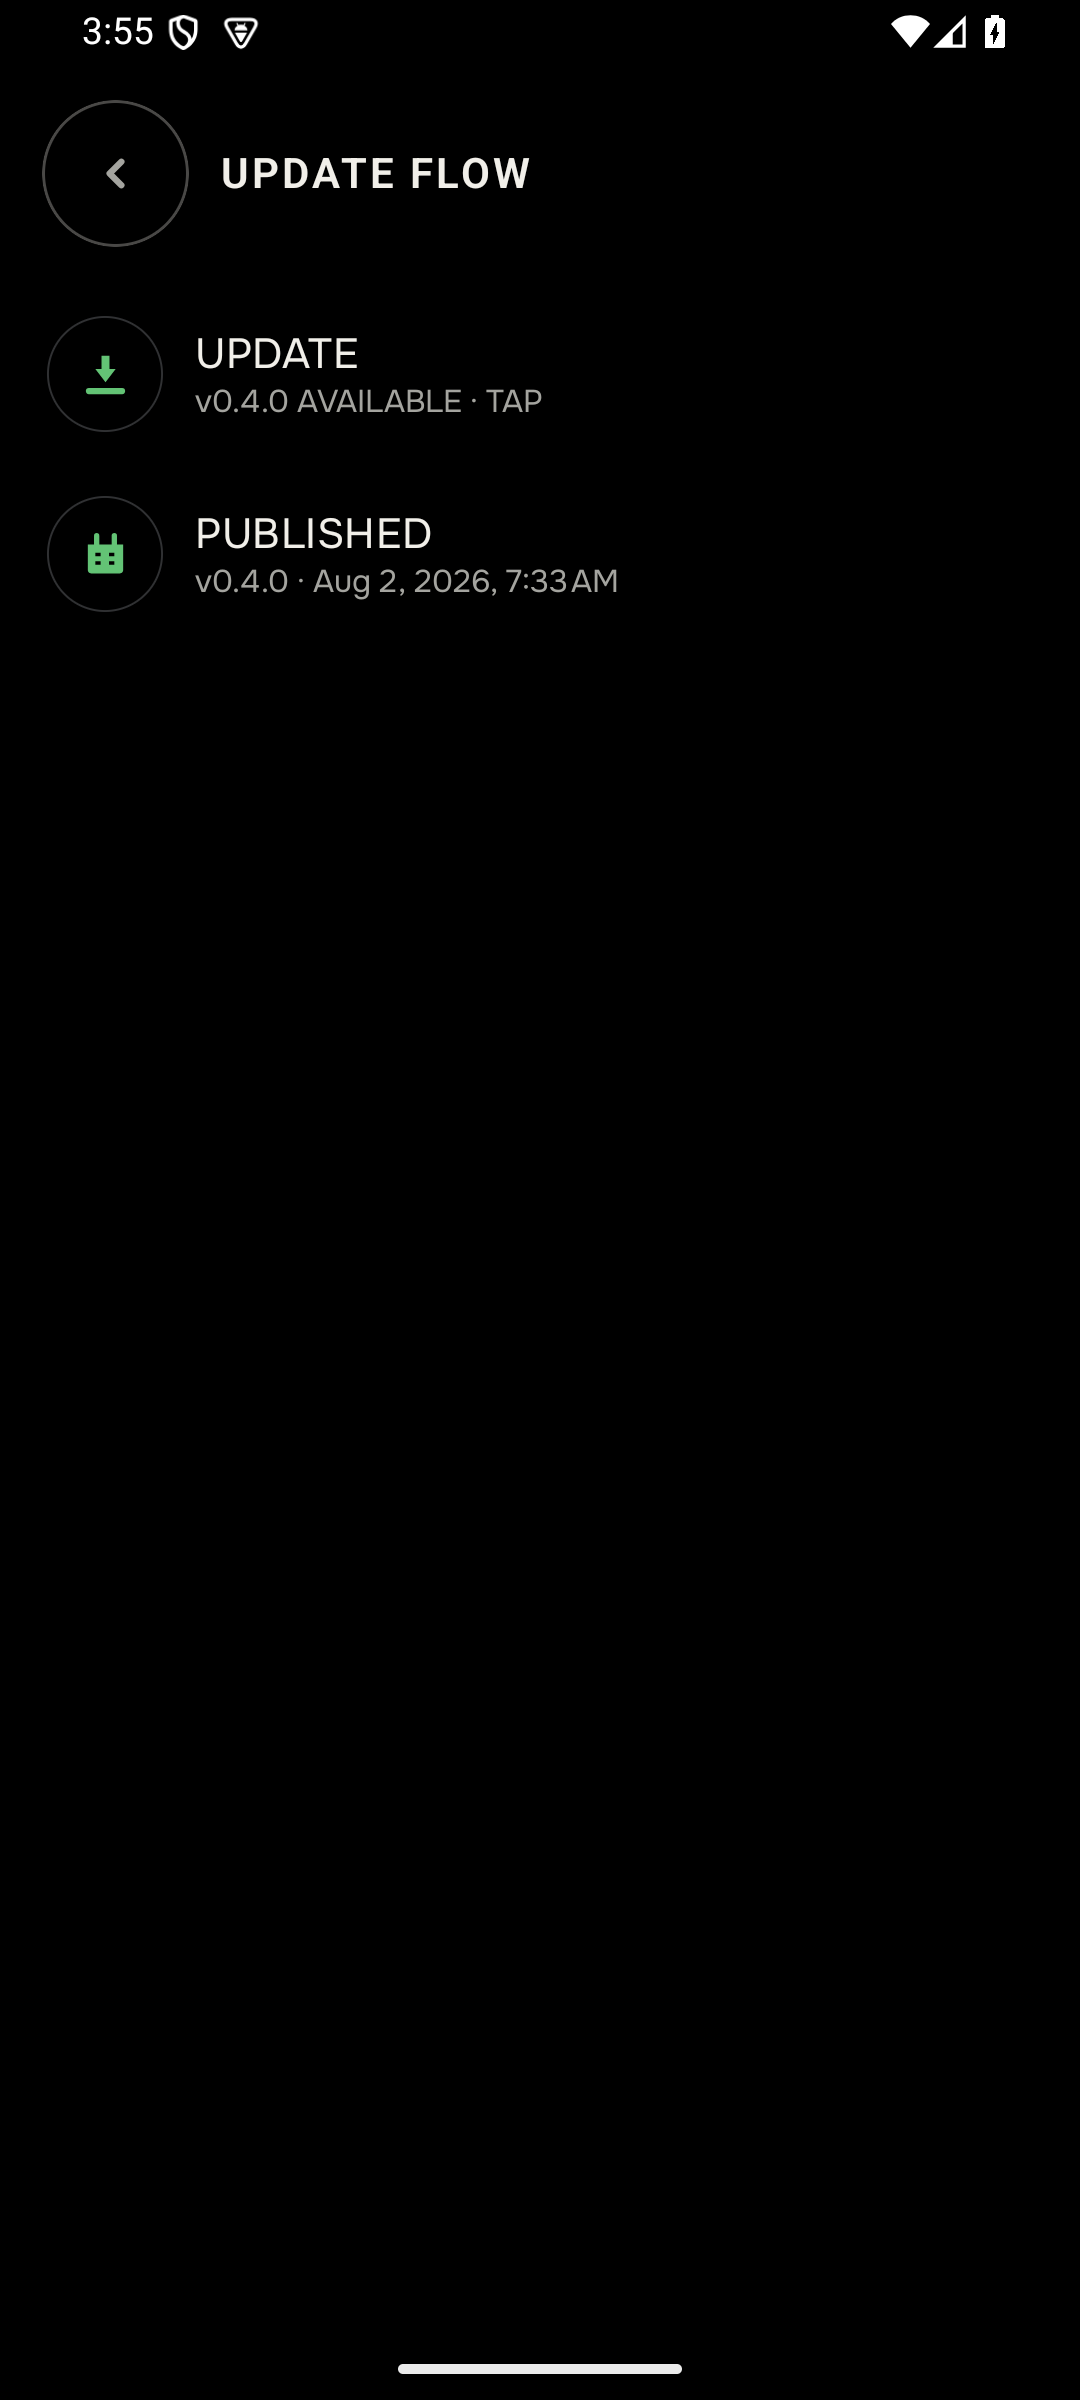
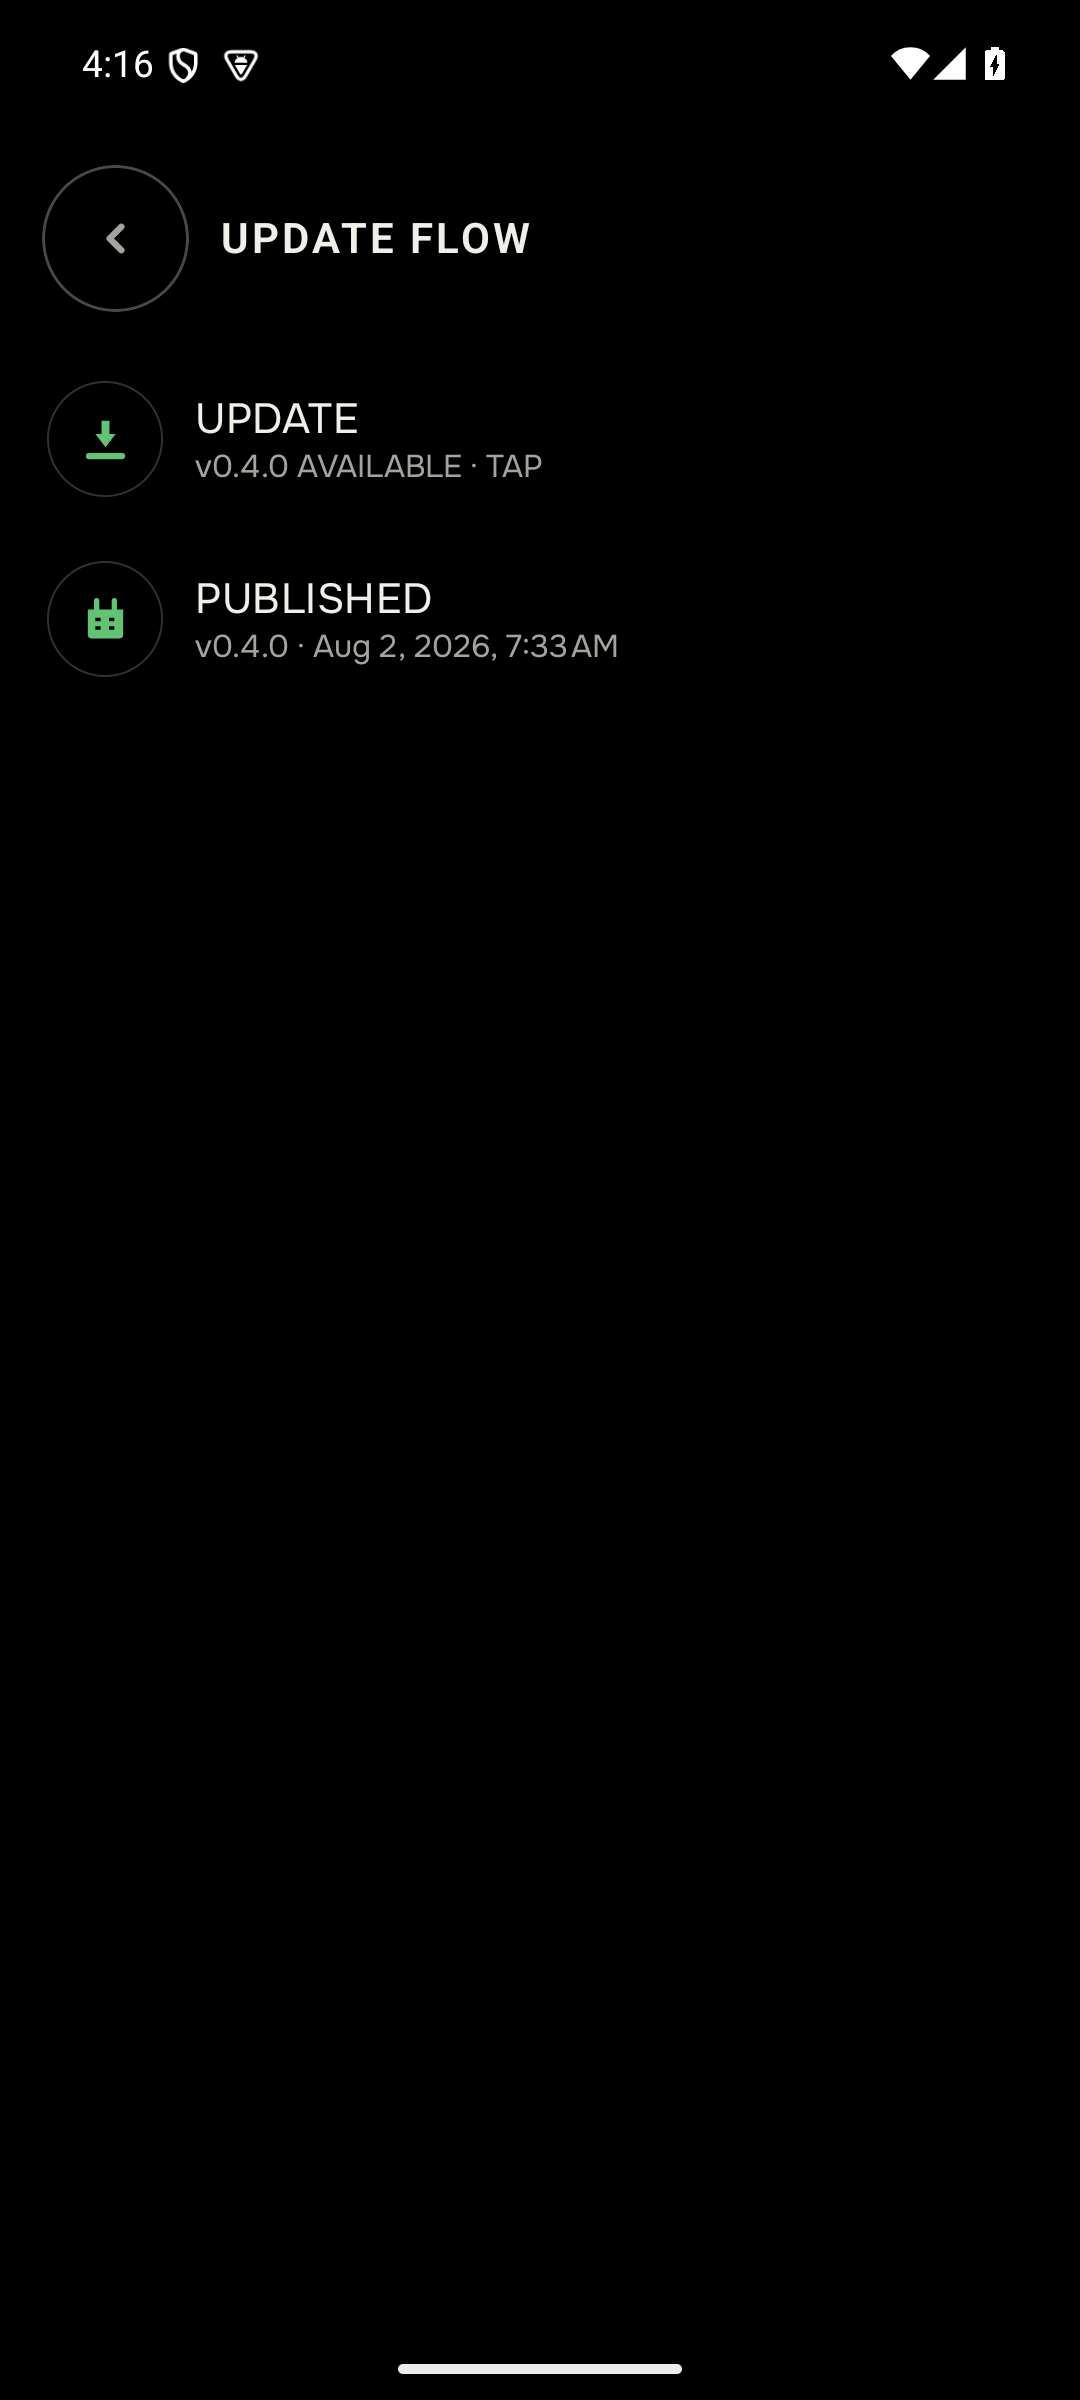
docs(releasekit-ui): refresh exact visual proof

diff --git a/docs/qa/2026-08-02-showcase-release-info/README.md b/docs/qa/2026-08-02-showcase-release-info/README.md
@@ -1,6 +1,6 @@
 # Showcase release publication presentation
 
-Source APK commit: `a0cbb1b334e387780e160ab2bcebad4cea07ac74`.
+Source APK commit: `dc987243f660a9918d1e97ebd8eb8eb1caedc8f7`.
 All navigation used `tools/showcase-probe.sh`; no coordinate taps or fabricated
 network response were used.
 
@@ -13,18 +13,21 @@ network response were used.
   `https://api.github.com/repos/adelost/circlekit/releases`.
 - The newest compatible release observed during QA was `v0.3.17`, with Phone
   and Wear APKs and source-owned `published_at=2026-08-02T05:33:20Z`.
-- Showcase is a same-repository laboratory and intentionally consumes
-  `project(":releasekit")`. This adoption therefore uses the source published
-  as CircleKit `0.3.19`; replacing it with its own Maven dependency would test
-  different code from the repository under development.
+- The separately publishable `releasekit-ui` module owns the exact UPDATE row,
+  optional PUBLISHED row, icons, typed check/install action mapping, progress,
+  failure colour, and locale/timezone boundary. Showcase consumes that module
+  directly and has no local release-row adapter.
+- Showcase is a same-repository laboratory and intentionally consumes project
+  modules. Replacing them with Maven dependencies would test different code
+  from the repository under development.
 
 ## Pixel contract and result
 
 The named `flow.update/available` fixture carries that fixed absolute instant.
 Before inspection, each image was required to show `UPDATE FLOW`, the shared
-`v0.4.0 AVAILABLE · TAP` projection, and a separate `PUBLISHED` row containing
+available update projection, and a separate `PUBLISHED` row containing
 `v0.4.0` plus device-local time. All requirements were checked against the
-captured pixels:
+captured pixels and the named probe surface dump:
 
 - [`phone-responsive.png`](phone-responsive.png): 1080 × 2400 portrait;
   probe dump reported `PHONE_COMPACT`; the publication instant renders as
@@ -34,24 +37,31 @@ captured pixels:
   `DEG_90`; probe dump reported `PHONE_WIDE`; version and identical local time
   remain visible without changing update state.
 - [`phone-watch-exact-216.png`](phone-watch-exact-216.png): named
-  `WATCH_EXACT` plus diameter `216`; probe dump reported `ROUND`; the same
-  publication row fits the round preview and the AUTO exit remains visible.
+  `WATCH_EXACT` plus diameter `216`; probe dump reported `ROUND`; the narrow
+  preview visibly ellipsizes the update detail as `v0.4.0 AVAIL…`, while the
+  complete publication value wraps across two lines and AUTO remains visible.
 
 Screenshot SHA-256 values, in the order above:
 
[6 lines of base64/hex data omitted]
 
 ## Bounded checks
 
 - `:releasekit:testDebugUnitTest`: shared UTC→New York/Tokyo, DST and null
   presentation tests pass.
+- `:releasekit-ui:testDebugUnitTest`: row structure, Download/Calendar icons,
+  typed actions, progress, failure colour, New York/Tokyo localization and
+  null-time omission pass.
+- `:releasekit-ui:assembleRelease` and
+  `:releasekit-ui:generatePomFileForReleasePublication`: the publishable AAR
+  contains `ReleaseUpdateRowsKt`; its POM carries the releasekit/ringkit graph.
 - `:showcase-catalog:testDebugUnitTest`: real host-product mapping carries the
-  absolute instant; Showcase wiring localizes a known instant and emits no
-  date row for null.
+  absolute instant and the shared rows are exposed in the deterministic flow.
 - `:showcase-phone:compileDebugKotlin`, `:showcase-wear:compileDebugKotlin`,
   both debug APK assemblies, `scripts/check-file-length.sh`, and
+  `scripts/check-adaptive-contract.sh`, `bash -n` for edited scripts, and
   `git diff --check`: pass.
 
 No polling, auto-update, download, installer, feed URL, workflow or hook was
